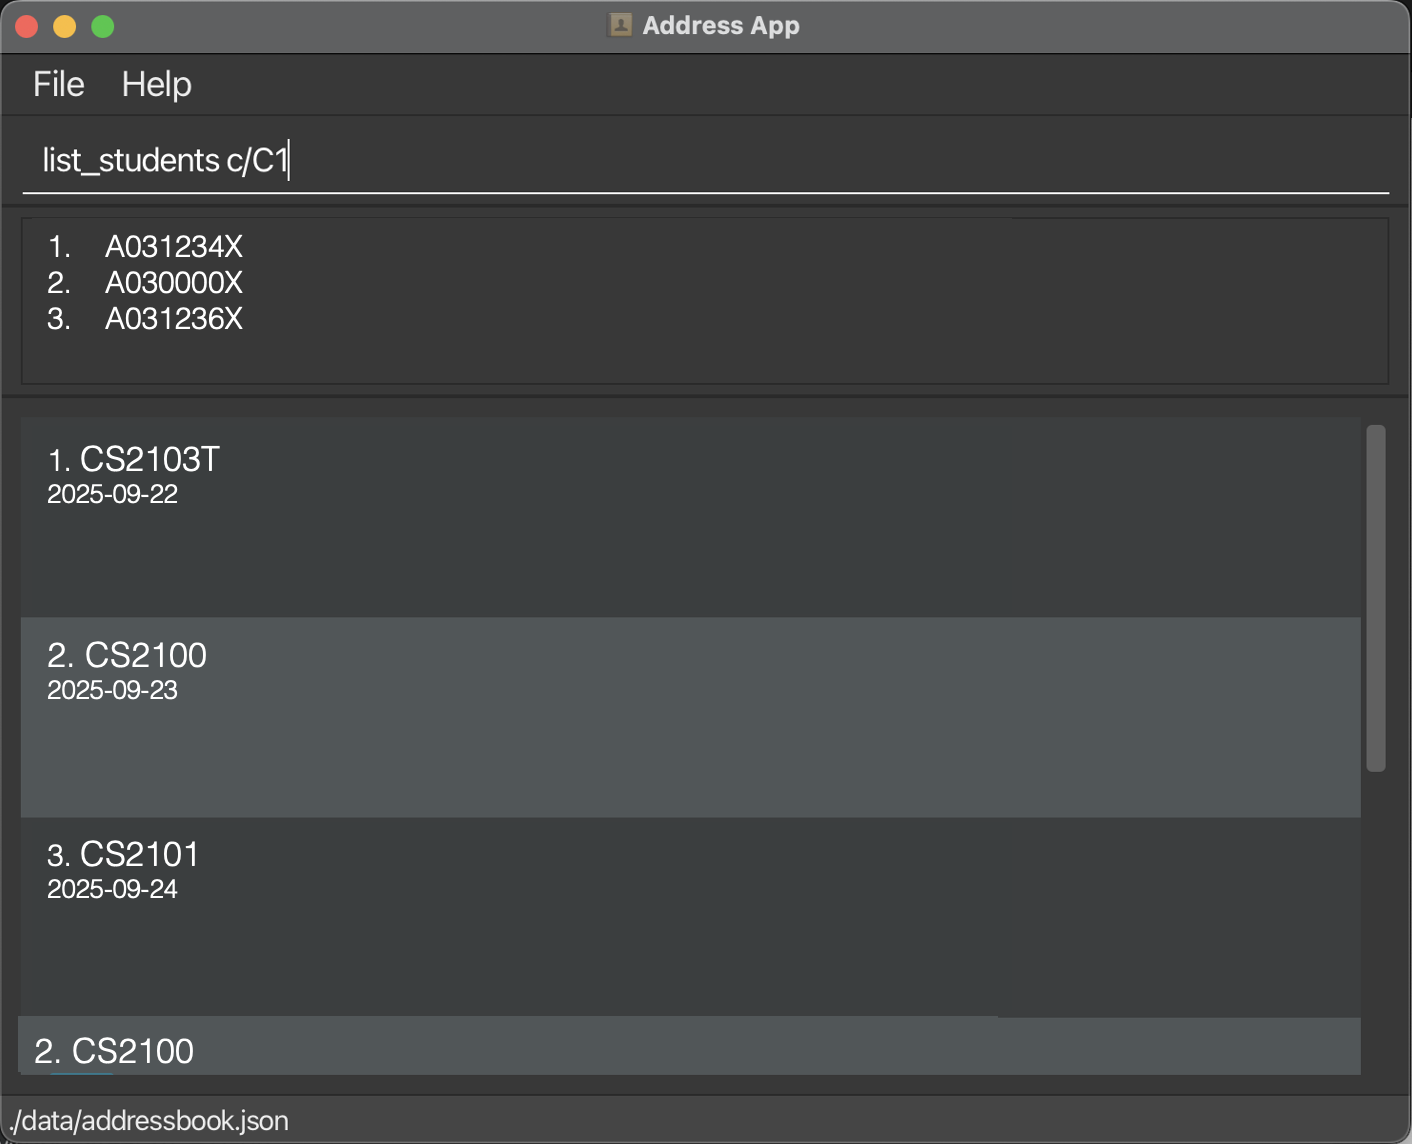
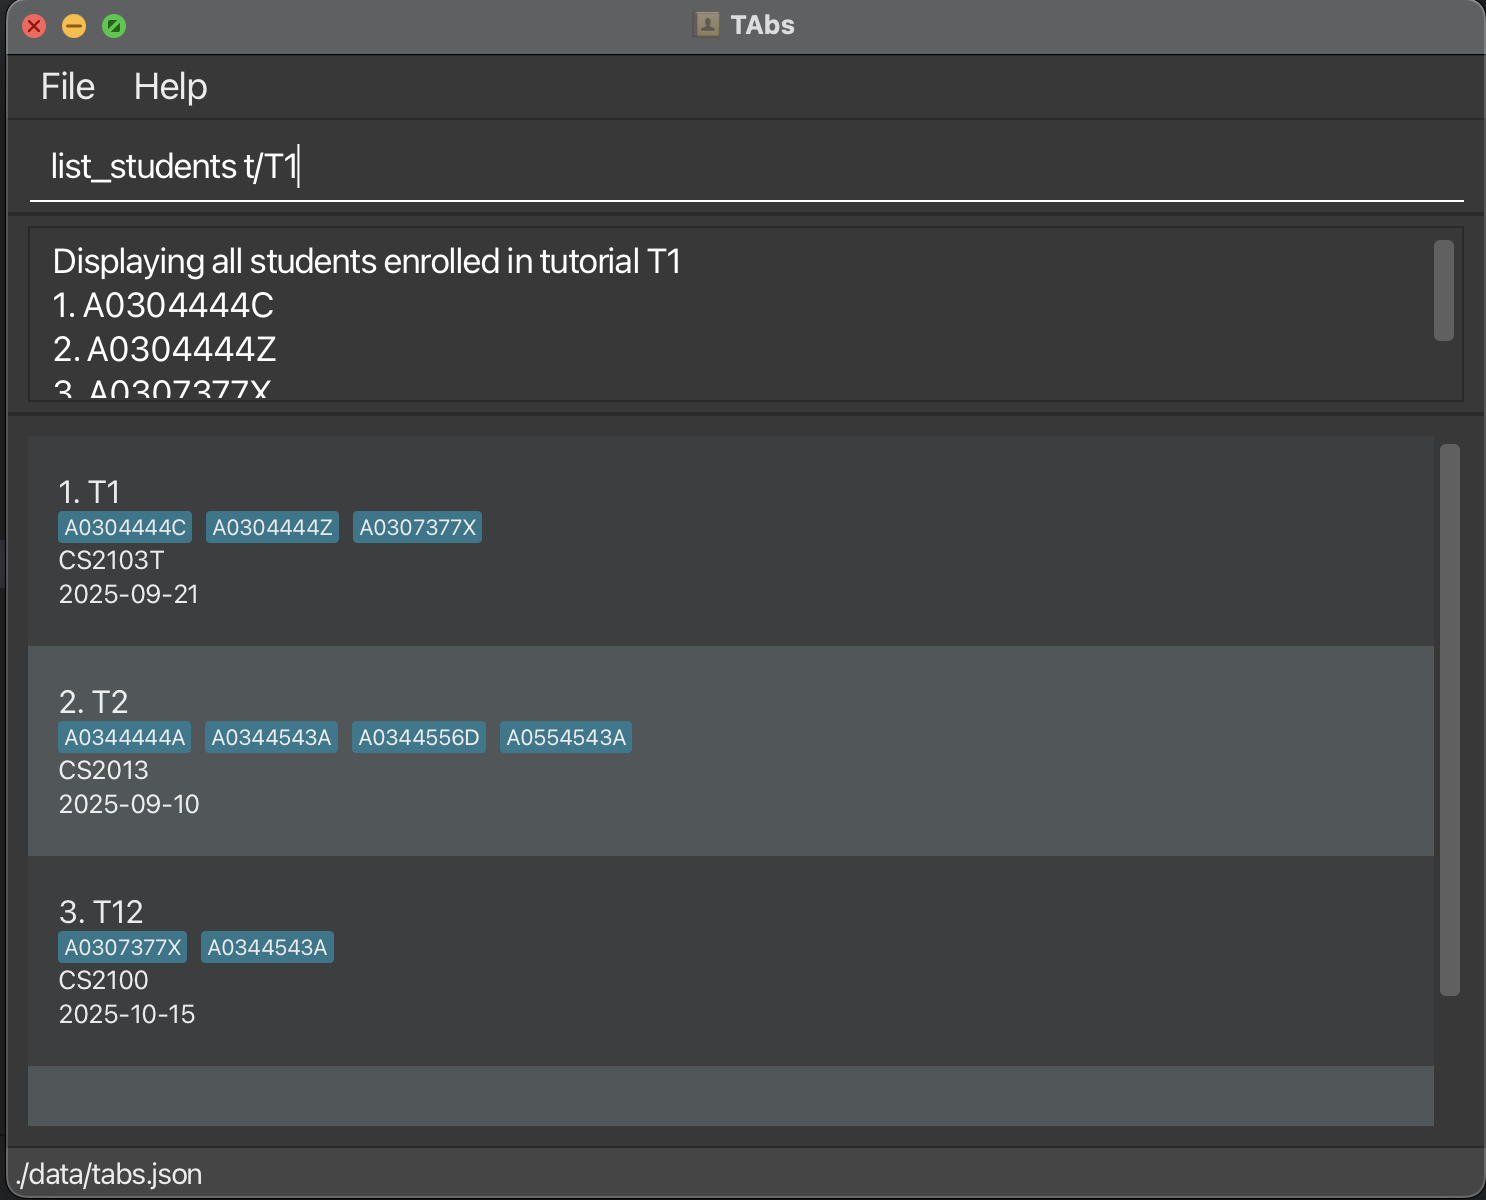
Update UserGuide and Ui.png

Changed region(s): [[0.0, 0.0, 1.0, 1.0], [0.4051, 0.0, 0.5921, 0.0612]]

diff --git a/docs/UserGuide.md b/docs/UserGuide.md
@@ -39,6 +39,8 @@ apps.
     * `add n/John Doe p/98765432 e/johnd@example.com a/John street, block 123, #01-01` : Adds a
       contact named `John Doe` to the Address Book.
 
+    * `list_students t/T1` : Display a list of all the students enrolled in the tutorial with ID `T1`.
+
     * `delete_tutorial t/T1` : Deletes the tutorial with ID `T1` shown in the current list.
 
     * `clear` : Deletes all contacts.
@@ -151,6 +153,21 @@ Examples:
 * `find alex david` returns `Alex Yeoh`, `David Li`<br>
   ![result for 'find alex david'](images/findAlexDavidResult.png)
 
+### Listing all the students in a tutorial: `list_students`
+
+Display a list of all the students enrolled in a specific tutorial on TAbs.
+
+Format: `list_students t/TUTORIAL_ID`
+
+* Lists all the students in a tutorial with the specified `TUTORIAL_ID`.
+* It shows a numbered list of all the student IDs of the students in that tutorial e.g., (1. A1234567X)
+* The tutorial ID refers to the title of the tutorial as displayed in TAbs (beginning with `T`).
+* The input must match the tutorial's ID exactly (case-sensitive).
+
+Examples:
+
+* `list_students t/T2` lists all the student in the tutorial with ID `T2` in TAbs.
+
 ### Deleting a tutorial: `delete_tutorial`
 
 Deletes the specified tutorial from TAbs.
@@ -237,13 +254,14 @@ file that contains the data of your previous TAbs home folder.
 
 ## Command summary
 
- Action                | Format, Examples                                                                                                                                                     
------------------------|----------------------------------------------------------------------------------------------------------------------------------------------------------------------
- **Add**               | `add n/NAME p/PHONE_NUMBER e/DATE a/ADDRESS [t/TAG]…` <br> e.g., `add n/James Ho p/22224444 e/jamesho@example.com a/123, Clementi Rd, 1234665 t/friend t/colleague` 
- **Clear**             | `clear`                                                                                                                                                              
- **Delete a tutorial** | `delete_tutorial t/TUTORIAL_ID`<br> e.g., `delete_tutorial t/T1`                                                                                                     
- **Edit**              | `edit INDEX [n/NAME] [p/PHONE_NUMBER] [e/DATE] [a/ADDRESS] [t/TAG]…`<br> e.g.,`edit 2 n/James Lee e/jameslee@example.com`                                           
- **Find**              | `find KEYWORD [MORE_KEYWORDS]`<br> e.g., `find James Jake`                                                                                                           
- **List**              | `list`                                                                                                                                                               
- **Help**              | `help`                                                                                                                                                               
+| Action                          | Format, Examples                                                                                                                                                     |
+|---------------------------------|----------------------------------------------------------------------------------------------------------------------------------------------------------------------|
+| **Add**                         | `add n/NAME p/PHONE_NUMBER e/DATE a/ADDRESS [t/TAG]…` <br> e.g., `add n/James Ho p/22224444 e/jamesho@example.com a/123, Clementi Rd, 1234665 t/friend t/colleague` |
+| **Clear**                       | `clear`                                                                                                                                                              |
+| **List students in a tutorial** | `list_students t/TUTORIAL_ID`<br> e.g., `list_students t/T1`                                                                                                         |
+| **Delete a tutorial**           | `delete_tutorial t/TUTORIAL_ID`<br> e.g., `delete_tutorial t/T1`                                                                                                     |
+| **Edit**                        | `edit INDEX [n/NAME] [p/PHONE_NUMBER] [e/DATE] [a/ADDRESS] [t/TAG]…`<br> e.g.,`edit 2 n/James Lee e/jameslee@example.com`                                           |
+| **Find**                        | `find KEYWORD [MORE_KEYWORDS]`<br> e.g., `find James Jake`                                                                                                           |
+| **List**                        | `list`                                                                                                                                                               |
+| **Help**                        | `help`                                                                                                                                                               |
 
